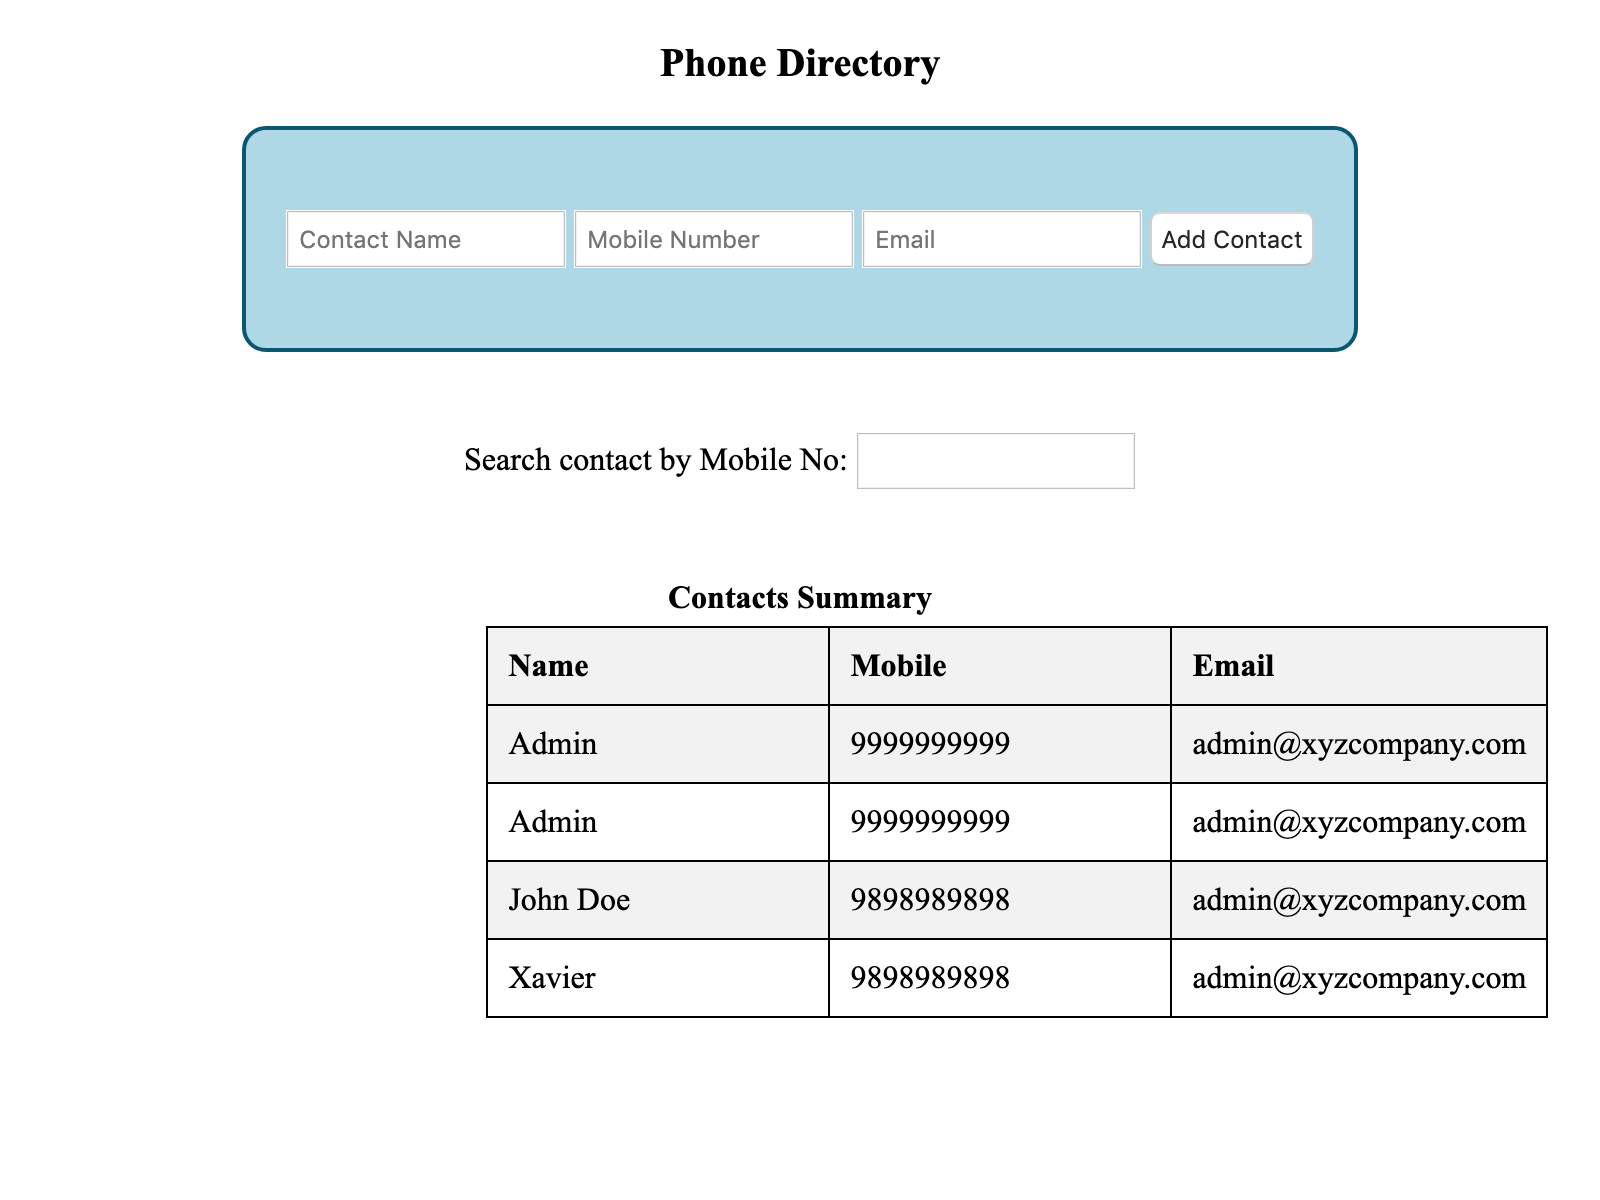
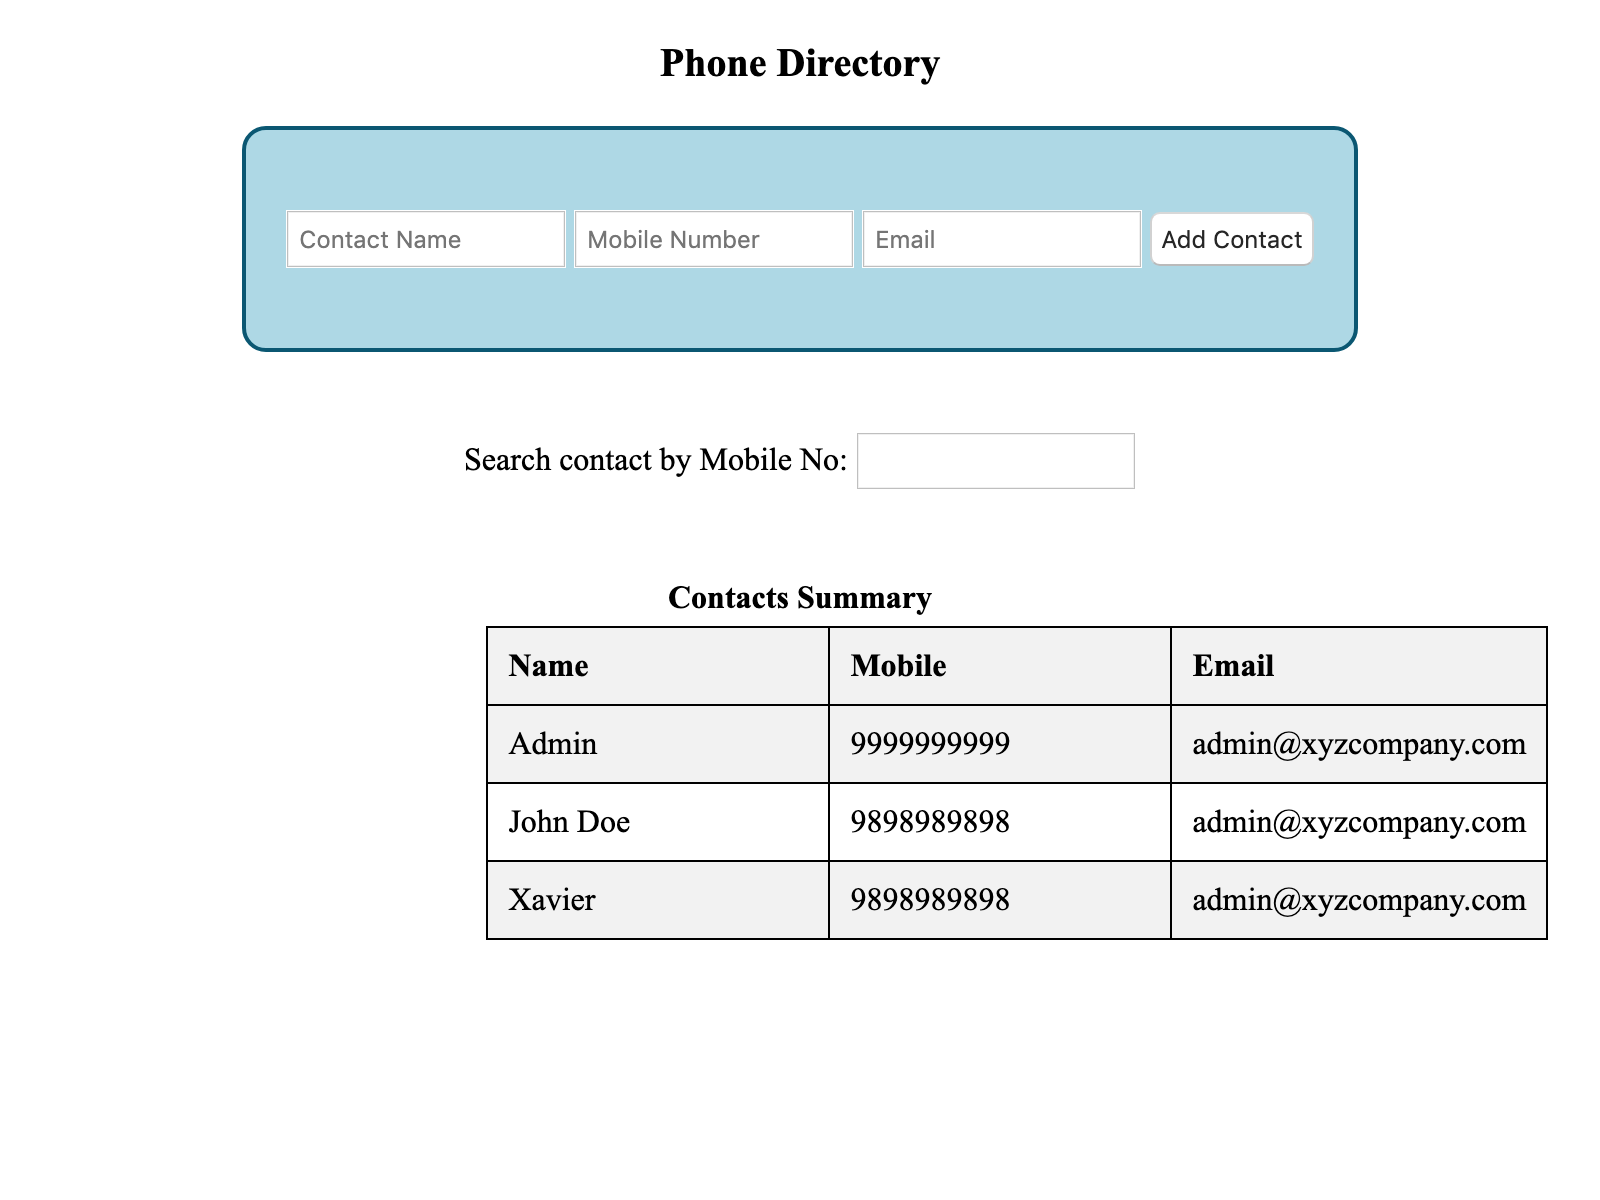
test case fix

diff --git a/view/js/script.js b/view/js/script.js
@@ -63,9 +63,7 @@ PhoneDirectory.prototype.sort = function() {
 }
 
 PhoneDirectory.prototype.reRendertable = function(sortedList) {
-  const $heading = this.$tBody.children[0];
   this.$tBody.innerHTML = '';
-  this.$tBody.append($heading);
   if (sortedList.length === 0) {
     this.$noResult.classList.remove('dn');
   } else {
@@ -130,101 +128,3 @@ PhoneDirectory.prototype.init = function() {
 
 const phoneDirectory = new PhoneDirectory();
 phoneDirectory.init();
-
-// function PhoneDirectory() {
-//   this.directory = [...contactsList];
-//   this.directoryBackup = [...contactsList];
-//   this.nameSort = null;
-// }
-// PhoneDirectory.prototype.submitClick = function(event) {
-//   if (this.name && this.name.value && this.mobile && this.mobile.value && this.email && this.email.value) {
-//       let item = { name: this.name.value, mobile: this.mobile.value, email: this.email.value };
-//       this.directory.push(item);
-//       this.directoryBackup = [...this.directory];
-//       this.updateTable();
-//   } else {
-//       this.error.style.display = 'block';
-//   }
-// }
-// PhoneDirectory.prototype.sortByName = function(event) {
-//   this.nameSort = (!this.nameSort || this.nameSort === -1) ? 1 : -1;
-//   this.directoryBackup = [...this.directory];
-//   this.directory = this.directory.sort(compareValues('name', (this.nameSort === 1) ? 'asc' : 'desc'));
-//   this.updateTable();
-// }
-// function compareValues(key, order = 'asc') {
-//   return function(a, b) {
-//       if (!a.hasOwnProperty(key) ||
-//           !b.hasOwnProperty(key)) {
-//           return 0;
-//       }
-//       const varA = (typeof a[key] === 'string') ?
-//           a[key].toUpperCase() : a[key];
-//       const varB = (typeof b[key] === 'string') ?
-//           b[key].toUpperCase() : b[key];
-//       let comparison = 0;
-//       if (varA > varB) {
-//           comparison = 1;
-//       } else if (varA < varB) {
-//           comparison = -1;
-//       }
-//       return (
-//           (order == 'desc') ?
-//           (comparison * -1) : comparison
-//       );
-//   };
-// }
-// PhoneDirectory.prototype.searchPhone = function(event) {
-//   let key = event.target.value;
-//   if (this.directory.length === 0) {
-//       this.directory = [...this.directoryBackup];
-//   }
-//   let searchItems = this.directory.filter((item) => {
-//       return item.mobile.includes(key);
-//   });
-//   if (searchItems.length > 0) {
-//       this.directory = [...searchItems];
-//       this.noResult.style.display = 'none';
-//   } else {
-//       this.directory = [];
-//       this.noResult.style.display = 'block';
-//   }
-//   this.updateTable();
-// }
-// PhoneDirectory.prototype.updateTable = function() {
-//   let headerRow = this.summaryTable.querySelector('tr:first-child');
-//   this.summaryTable.innerHTML = '';
-//   this.summaryTable.appendChild(headerRow);
-//   this.directory.forEach(item => {
-//       let row = document.createElement('tr'),
-//           name = document.createElement('td'),
-//           email = document.createElement('td'),
-//           mobile = document.createElement('td');
-//       name.innerText = item.name;
-//       email.innerText = item.email;
-//       mobile.innerText = item.mobile;
-//       row.appendChild(name);
-//       row.appendChild(mobile);
-//       row.appendChild(email);
-//       this.summaryTable.appendChild(row);
-//   })
-// }
-// PhoneDirectory.prototype.init = function() {
-//   this.submitBtn = document.querySelector('#submit');
-//   this.name = document.querySelector('#name');
-//   this.mobile = document.querySelector('#mobile');
-//   this.email = document.querySelector('#email');
-//   this.error = document.querySelector('#error');
-//   this.noResult = document.querySelector('#noResult');
-//   this.summaryTable = document.querySelector('#summaryTable');
-//   this.nameColumn = document.querySelector('#nameColumn');
-//   this.search = document.querySelector('#search');
-//   this.submitBtn.addEventListener("click", this.submitClick.bind(this));
-//   this.nameColumn.addEventListener("click", this.sortByName.bind(this));
-//   this.search.addEventListener("keyup", this.searchPhone.bind(this));
-//   this.updateTable();
-// }
-// window.addEventListener('DOMContentLoaded', (event) => {
-//   var phoneDirectory = new PhoneDirectory();
-//   phoneDirectory.init();
-// });

diff --git a/test/test.js b/test/test.js
@@ -169,9 +169,9 @@ describe('Phone Directory app \n', function() {
 
     // Ascending
     await nameColumn.click();
-    let name1 = "document.querySelectorAll('#summaryTable tbody')[0].children[1].children[0].innerText.toLowerCase()";
-    let name2 = "document.querySelectorAll('#summaryTable tbody')[0].children[2].children[0].innerText.toLowerCase()";
-    let name3 = "document.querySelectorAll('#summaryTable tbody')[0].children[3].children[0].innerText.toLowerCase()";
+    let name1 = "document.querySelectorAll('#summaryTable tbody')[0].children[0].children[0].innerText.toLowerCase()";
+    let name2 = "document.querySelectorAll('#summaryTable tbody')[0].children[1].children[0].innerText.toLowerCase()";
+    let name3 = "document.querySelectorAll('#summaryTable tbody')[0].children[2].children[0].innerText.toLowerCase()";
     let sorted = await driver.executeScript(`return (${name1} < ${name2}) && (${name1} < ${name3}) && (${name2} < ${name3})`);
     expect(sorted).to.be.true;
     driver.takeScreenshot().then(
@@ -239,15 +239,15 @@ describe('Phone Directory app \n', function() {
 
     const tbody = "document.querySelectorAll('#summaryTable tbody')[0]";
     search.sendKeys('987654');
-    let correctRows = await driver.executeScript(`return document.querySelectorAll('#summaryTable tbody')[0].childElementCount === 3 &&
-      ${tbody}.children[1].children[0].innerText === "John Doe" && ${tbody}.children[1].children[1].innerText === "9876543210" && ${tbody}.children[1].children[2].innerText === "admin3@xyzcompany.com"
-      ${tbody}.children[2].children[0].innerText === "Xavier" && ${tbody}.children[2].children[1].innerText === "9876540000" && ${tbody}.children[2].children[2].innerText === "admin4@xyzcompany.com"`);
+    let correctRows = await driver.executeScript(`return document.querySelectorAll('#summaryTable tbody')[0].childElementCount === 2 &&
+      ${tbody}.children[0].children[0].innerText === "John Doe" && ${tbody}.children[0].children[1].innerText === "9876543210" && ${tbody}.children[0].children[2].innerText === "admin3@xyzcompany.com"
+      ${tbody}.children[1].children[0].innerText === "Xavier" && ${tbody}.children[1].children[1].innerText === "9876540000" && ${tbody}.children[1].children[2].innerText === "admin4@xyzcompany.com"`);
 
     expect(correctRows).to.be.true;
     search.clear();
     search.sendKeys('9876543210');
-    correctRows = await driver.executeScript(`return document.querySelectorAll('#summaryTable tbody')[0].childElementCount === 2 && 
-      ${tbody}.children[1].children[0].innerText === "John Doe" && ${tbody}.children[1].children[1].innerText === "9876543210" && ${tbody}.children[1].children[2].innerText === "admin3@xyzcompany.com"`);
+    correctRows = await driver.executeScript(`return document.querySelectorAll('#summaryTable tbody')[0].childElementCount === 1 && 
+      ${tbody}.children[0].children[0].innerText === "John Doe" && ${tbody}.children[0].children[1].innerText === "9876543210" && ${tbody}.children[0].children[2].innerText === "admin3@xyzcompany.com"`);
     expect(correctRows).to.be.true;
     driver.takeScreenshot().then(
       function(image, err) {
@@ -264,7 +264,7 @@ describe('Phone Directory app \n', function() {
 
     const tbody = "document.querySelectorAll('#summaryTable tbody')[0]";
     search.sendKeys('0000000000');
-    let correctRows = await driver.executeScript(`return document.querySelectorAll('#summaryTable tbody')[0].childElementCount === 1 && getComputedStyle(document.getElementById('noResult')).display !== 'none'`);
+    let correctRows = await driver.executeScript(`return document.querySelectorAll('#summaryTable tbody')[0].childElementCount === 0 && getComputedStyle(document.getElementById('noResult')).display !== 'none'`);
     expect(correctRows).to.be.true;
     driver.takeScreenshot().then(
       function(image, err) {
